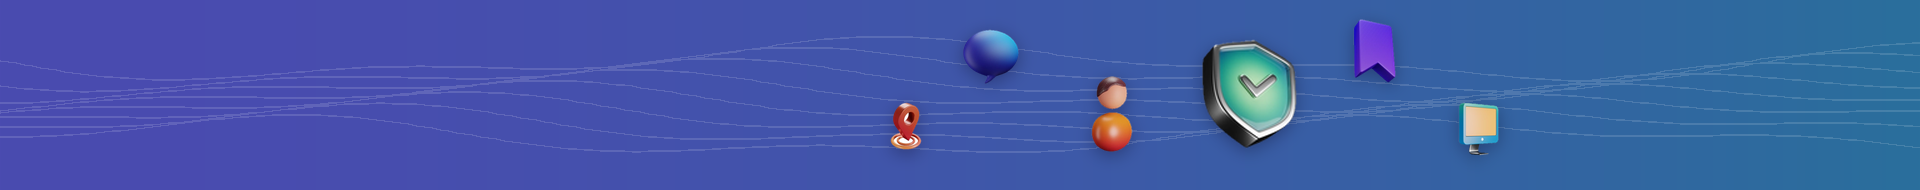
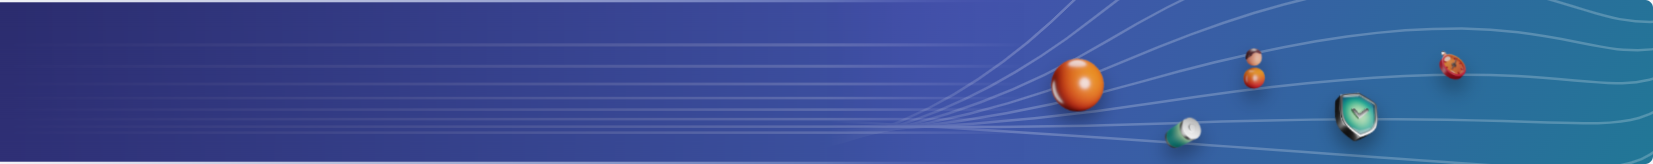
Layout Studio: Teams band, hero art from the mockup

diff --git a/layout-studio/RELEASE.md b/layout-studio/RELEASE.md
@@ -2,7 +2,7 @@
 
 ## 1.1.0
 
-Closer to the mockup: wide search, a narrower sidebar with bigger group heads, 3D icons on the group of Information and on the key figures of the Overview, and a hero banner with 3D art (needs Mosaikit 1.4: shell hooks `data-icon`, `data-group`).
+Closer to the mockup: centred search like Teams, a narrower sidebar with bigger group heads, 3D icons on the group of Information and on the key figures of the Overview, and a hero banner with 3D art (needs Mosaikit 1.4: shell hooks `data-icon`, `data-group`).
 
 ## 1.0.0
 
